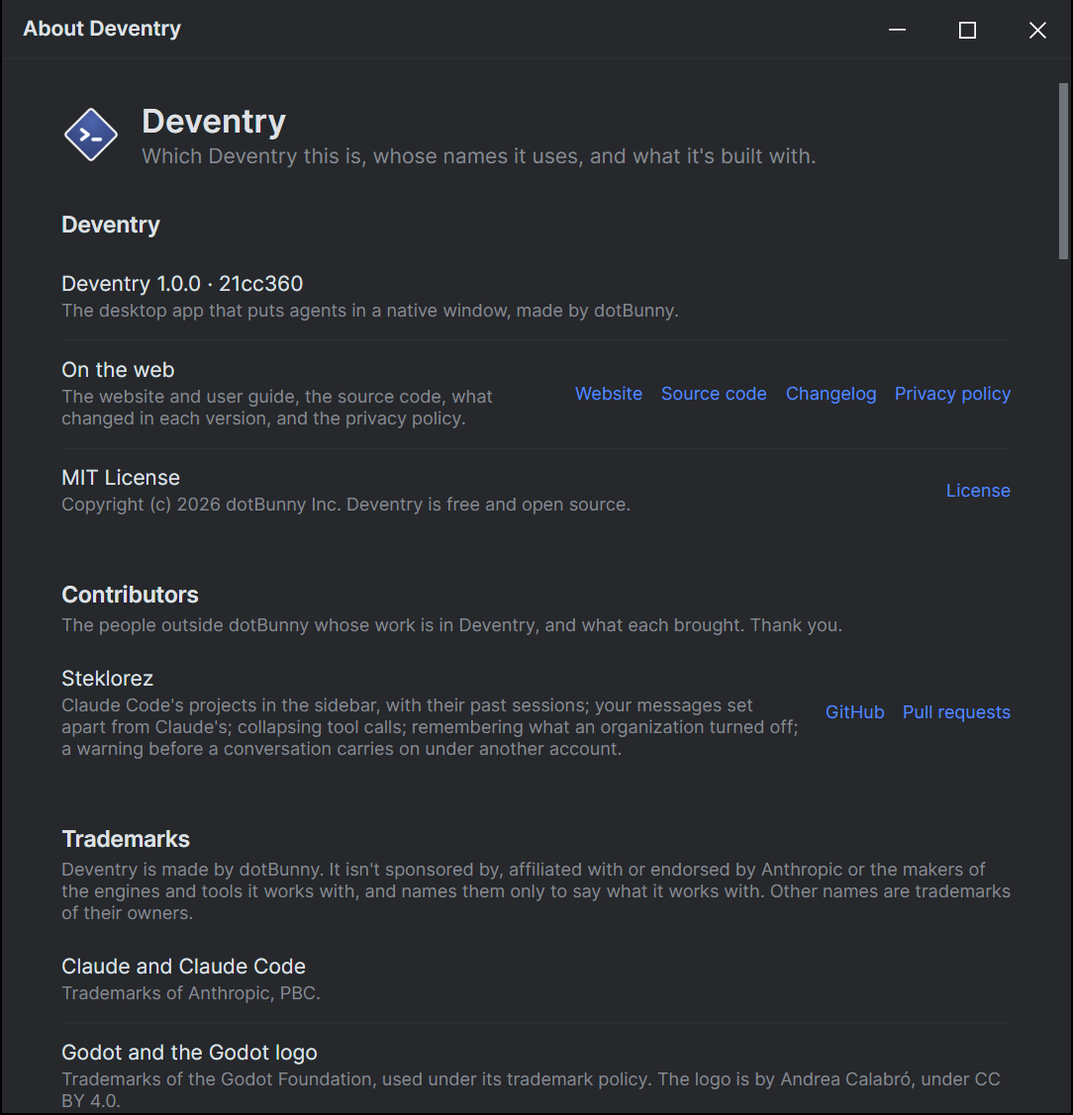
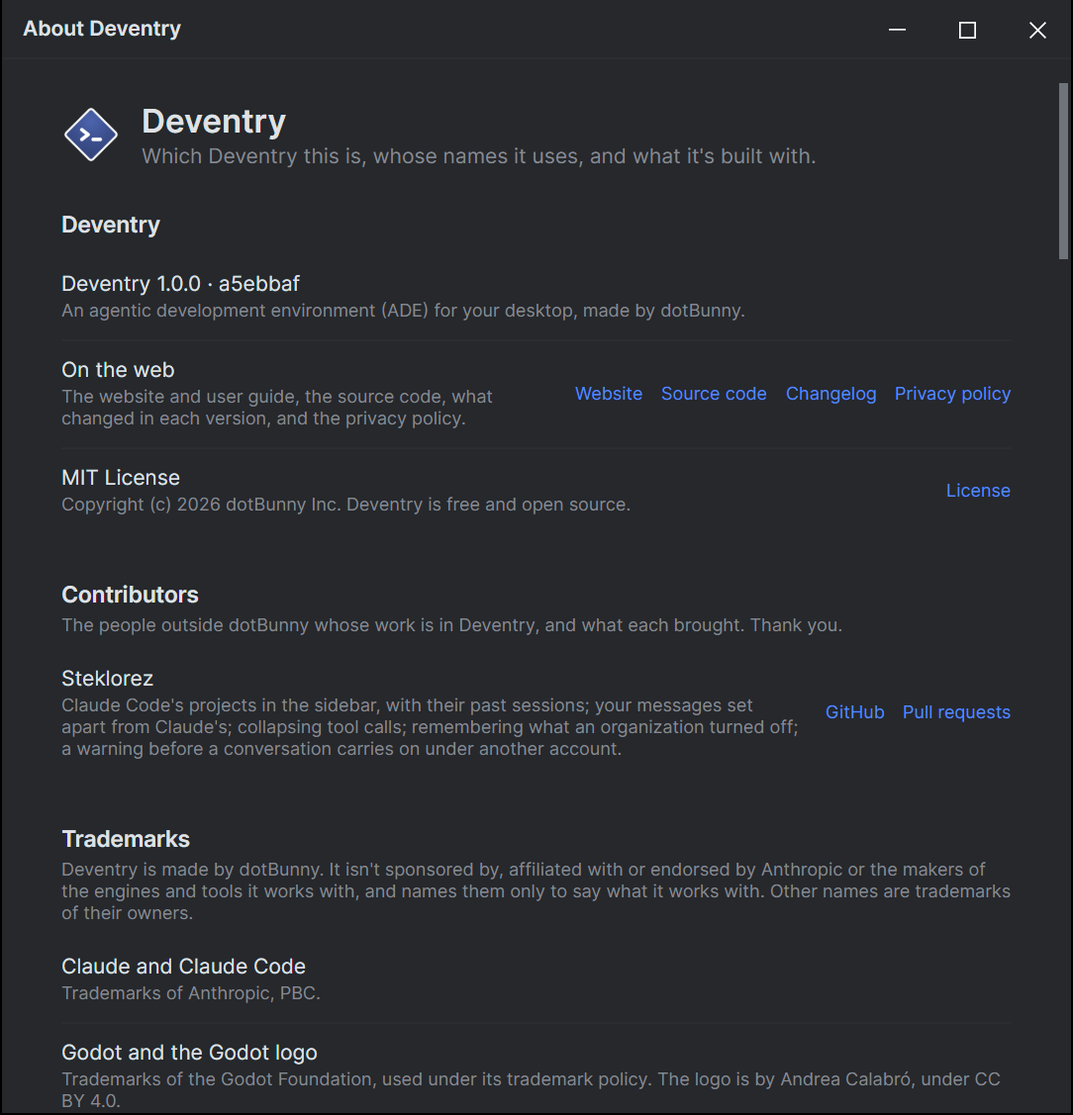
Prepare 1.0.0: say Deventry is an ADE, light on tokens by default
The site, README, About, the MSIX and the Linux entries now say what
Deventry is: an agentic development environment (ADE) for your desktop,
made for Claude Code first, with more agents to come. The landing page's
kicker and the social card read "Agentic development, in a real desktop
window", and a new Light on tokens band says what Deventry asks Claude
for on its own and what it leaves off until asked.

Tabs no longer use usage credits by default; settings saved before keep
their choice. DESIGN.md's positioning rules and §6 follow.

CHANGELOG.md's Unreleased becomes 1.0.0, dated 2026-11-04
(release.mjs prepare).

Changed region(s): [[0.1218, 0.2484, 0.4262, 0.3106], [0.4566, 0.2484, 0.6697, 0.3106], [0.0609, 0.2484, 0.0913, 0.3106]]

diff --git a/docs/index.html b/docs/index.html
@@ -1,7 +1,7 @@
 ---
 layout: landing
 title: Deventry
-description: Your agents in a real desktop window. Every session in its own tab, every change ready to review, and your plan's usage on screen the whole time.
+description: An agentic development environment (ADE) for your desktop, made for Anthropic's Claude Code and light on tokens by default. Every session in its own tab, every change ready to review, and your plan's usage on screen the whole time.
 nav_exclude: true
 search_exclude: true
 ---
@@ -38,9 +38,9 @@ search_exclude: true
     <img class="hero-sprite" src="{{ '/assets/deventry.svg' | relative_url }}" alt="" width="120" height="120">
     <img class="hero-wordmark" src="{{ '/assets/wordmark.svg' | relative_url }}" alt="" width="540" height="80">
   </div>
-  <p class="kicker">Your agents, in a real desktop window</p>
+  <p class="kicker">Agentic development, in a real desktop window</p>
   <h1 class="hero-title">Every session in a tab.<br><span class="gradient-text">Every change in sight.</span></h1>
-  <p class="hero-lead">Deventry runs the real Claude Code, with your settings, <code>CLAUDE.md</code>, MCP servers and hooks, and draws it as a native app: a tab for each session, every change ready to review, and your plan's usage on screen the whole time.</p>
+  <p class="hero-lead">Deventry is an agentic development environment, an ADE, for your desktop. It runs Anthropic's Claude Code, the real <code>claude</code> with your settings, <code>CLAUDE.md</code>, MCP servers and hooks, as a native app: a tab for each session, every change ready to review, and your plan's usage on screen the whole time. Out of the box, it spends as few of your tokens as it can.</p>
 
   <div class="get" id="download">
     <div class="get-card">
@@ -54,7 +54,7 @@ search_exclude: true
       <p class="get-soon">Until then, {% if claudette %}Claudette {{ claudette.tag_name | remove_first: "v" }}{% else %}Claudette{% endif %}, Deventry's name before 1.0.0, is on the <a href="{{ '/downloads/#claudette' | relative_url }}">Downloads page</a>.</p>
       {%- endunless %}
     </div>
-    <p class="get-note">Works with <a href="https://code.claude.com/docs/en/setup">Claude Code</a> today, with more providers to come · Windows 10 and 11, macOS 12 or later, Linux on x64 · <a href="{{ '/downloads/' | relative_url }}">Every package</a></p>
+    <p class="get-note">Made for <a href="https://code.claude.com/docs/en/setup">Claude Code</a> first, with more agents to come · Windows 10 and 11, macOS 12 or later, Linux on x64 · <a href="{{ '/downloads/' | relative_url }}">Every package</a></p>
   </div>
 
   <div class="hero-actions">
@@ -65,6 +65,7 @@ search_exclude: true
 
   <ul class="trust">
     <li>{% include icon.html name="terminal" %} Runs the real <code>claude</code></li>
+    <li><a href="#lean">{% include icon.html name="gauge" %} <strong>Light on tokens</strong> by default</a></li>
     <li>{% include icon.html name="shield" %} <strong>No analytics</strong></li>
     <li>{% include icon.html name="code" %} MIT licensed</li>
     <li><a href="#platforms">{% include icon.html name="monitor" %} Windows, macOS and Linux</a></li>
@@ -77,6 +78,23 @@ search_exclude: true
     {% include picture.html name="standard" alt="Deventry's window: seven tabs over three game projects in the sidebar, a C++ conversation with tool calls and a code block, the Changed files page in the side panel, the plan's usage in the header, and Joulene standing on the message box" width=2224 height=1427 eager=true %}
   </div>
 </div>
+
+<section class="band lean" id="lean" aria-labelledby="lean-title">
+  <div class="section-head" data-reveal>
+    <p class="kicker">{% include icon.html name="gauge" %} Light on tokens</p>
+    <h2 id="lean-title">Your tokens go to your work.<br><span class="gradient-text">Not to the window.</span></h2>
+    <p>Deventry asks Claude for very little on its own: a short title for each new session, and a check-in on a turn that runs long or goes quiet. Whatever else would spend tokens waits for you to turn it on, and keeping an eye on your usage spends none.</p>
+  </div>
+  <div class="cards cards-3">
+    <a class="card" href="{{ '/composer/prompt-suggestions/' | relative_url }}" data-reveal>{% include icon.html name="sparkles" %}<strong>Extras wait for you</strong><span>Prompt suggestions and subagents' progress summaries each take a model call of their own, so they're off until you turn them on.</span></a>
+    <a class="card" href="{{ '/usage/tabs-that-dont-use-usage-credits/' | relative_url }}" data-reveal>{% include icon.html name="coins" %}<strong>Credits kept for later</strong><span>Once a limit's used up, tabs wait for the reset rather than spend your usage credits, unless you say a tab may.</span></a>
+    <a class="card" href="{{ '/usage/the-prompt-cache/' | relative_url }}" data-reveal>{% include icon.html name="timer" %}<strong>The cache, counted down</strong><span>A chip shows how long the prompt cache has left, so you know when your next message reads the conversation for a fraction of the cost.</span></a>
+    <a class="card" href="{{ '/composer/check-ins-on-long-turns/' | relative_url }}" data-reveal>{% include icon.html name="activity" %}<strong>No turn left burning</strong><span>A turn that runs long or goes quiet gets a check-in, so a stuck tab doesn't burn your usage without anyone noticing.</span></a>
+    <a class="card" href="{{ '/usage/context-and-compacting/' | relative_url }}" data-reveal>{% include icon.html name="chart-pie" %}<strong>Context at a glance</strong><span>A ring on each tab's row shows how full its context is, counted without spending a token, with what fills it a click away.</span></a>
+    <a class="card" href="{{ '/conversation/subagents/#discouraging-or-turning-off-subagents' | relative_url }}" data-reveal>{% include icon.html name="users" %}<strong>Subagents your way</strong><span>Let Claude decide, discourage subagents, or turn them off, for every tab or just one.</span></a>
+  </div>
+  <p class="band-more" data-reveal><a class="more" href="{{ '/getting-started/how-deventry-uses-claude-code/#what-deventry-asks-claude-code-for-on-its-own' | relative_url }}">What Deventry asks Claude Code for {% include icon.html name="arrow-right" %}</a></p>
+</section>
 
 <section class="band gamedev" id="game-dev" aria-labelledby="gamedev-title">
   <div class="section-head" data-reveal>

diff --git a/docs/_includes/icon.html b/docs/_includes/icon.html
@@ -38,6 +38,12 @@
 {%- when "scroll" -%}<path d="M15 12h-5"/><path d="M15 8h-5"/><path d="M19 17V5a2 2 0 0 0-2-2H4"/><path d="M8 21h12a2 2 0 0 0 2-2v-1a1 1 0 0 0-1-1H11a1 1 0 0 0-1 1v1a2 2 0 1 1-4 0V5a2 2 0 1 0-4 0v2a1 1 0 0 0 1 1h3"/>
 {%- when "columns" -%}<rect width="18" height="18" x="3" y="3" rx="2"/><path d="M9 3v18"/><path d="M15 3v18"/>
 {%- when "rewind" -%}<path d="M3 12a9 9 0 1 0 9-9 9.75 9.75 0 0 0-6.74 2.74L3 8"/><path d="M3 3v5h5"/>
+{%- when "gauge" -%}<path d="m12 14 4-4"/><path d="M3.34 19a10 10 0 1 1 17.32 0"/>
+{%- when "coins" -%}<circle cx="8" cy="8" r="6"/><path d="M18.09 10.37A6 6 0 1 1 10.34 18"/><path d="M7 6h1v4"/><path d="m16.71 13.88.7.71-2.82 2.82"/>
+{%- when "timer" -%}<line x1="10" x2="14" y1="2" y2="2"/><line x1="12" x2="15" y1="14" y2="11"/><circle cx="12" cy="14" r="8"/>
+{%- when "activity" -%}<path d="M22 12h-2.48a2 2 0 0 0-1.93 1.46l-2.35 8.36a.25.25 0 0 1-.48 0L9.24 2.18a.25.25 0 0 0-.48 0l-2.35 8.36A2 2 0 0 1 4.49 12H2"/>
+{%- when "chart-pie" -%}<path d="M21 12c.552 0 1.005-.449.95-.998a10 10 0 0 0-8.953-8.951c-.55-.055-.998.398-.998.95v8a1 1 0 0 0 1 1z"/><path d="M21.21 15.89A10 10 0 1 1 8 2.83"/>
+{%- when "users" -%}<path d="M16 21v-2a4 4 0 0 0-4-4H6a4 4 0 0 0-4 4v2"/><circle cx="9" cy="7" r="4"/><path d="M22 21v-2a4 4 0 0 0-3-3.87"/><path d="M16 3.13a4 4 0 0 1 0 7.75"/>
 {%- when "unfold-horizontal" -%}<path d="M16 12h6"/><path d="M8 12H2"/><path d="M12 2v2"/><path d="M12 8v2"/><path d="M12 14v2"/><path d="M12 20v2"/><path d="m19 15 3-3-3-3"/><path d="m5 9-3 3 3 3"/>
 {%- when "fold-horizontal" -%}<path d="M2 12h6"/><path d="M22 12h-6"/><path d="M12 2v2"/><path d="M12 8v2"/><path d="M12 14v2"/><path d="M12 20v2"/><path d="m19 9-3 3 3 3"/><path d="m5 15 3-3-3-3"/>
 {%- endcase -%}

diff --git a/tools/Deventry.Demo/social-card.html b/tools/Deventry.Demo/social-card.html
@@ -106,12 +106,12 @@
       <img class="sprite" src="../../docs/assets/deventry.svg" alt="">
       <img class="wordmark" src="../../docs/assets/wordmark.svg" alt="">
     </div>
-    <p class="kicker">Your agents, in a real desktop window</p>
+    <p class="kicker">Agentic development, in a real desktop window</p>
     <h1>Every session in a tab.<br><span class="gradient-text">Every change in sight.</span></h1>
     <p class="features">Tabs<b>·</b>Agents<b>·</b>Usage<b>·</b>Review<b>·</b>Files</p>
     <div class="card">
-      <svg viewBox="0 0 24 24" fill="none" stroke="currentColor" stroke-width="2" stroke-linecap="round" stroke-linejoin="round"><path d="m4 17 6-6-6-6"/><path d="M12 19h8"/></svg>
-      <p><strong>Runs the real <code>claude</code></strong>, with your settings, <code>CLAUDE.md</code>, MCP servers and hooks</p>
+      <svg viewBox="0 0 24 24" fill="none" stroke="currentColor" stroke-width="2" stroke-linecap="round" stroke-linejoin="round"><path d="m12 14 4-4"/><path d="M3.34 19a10 10 0 1 1 17.32 0"/></svg>
+      <p><strong>An ADE for Claude Code</strong>, light on tokens by default, with more agents to come</p>
     </div>
   </div>
   <p class="site">deventry.app</p>

diff --git a/docs/assets/css/landing.css b/docs/assets/css/landing.css
@@ -216,6 +216,9 @@ h1, h2, h3 { color: var(--heading); line-height: 1.12; margin: 0; }
 .hero-shot { max-width: 68rem; margin: 1rem auto 0; padding: 0 1.5rem; perspective: 2000px; }
 .frame-hero { border-radius: 1.2rem; }
 
+/* Light on tokens: what Deventry spends of them, and what it leaves off until asked, first after the window. */
+.band.lean { padding-top: 7rem; padding-bottom: 0; }
+
 /* For game developers: a card for each engine Deventry knows, then what else a game's day needs. The systems it runs
    on have cards of the same kind, further down. */
 .band.gamedev { padding-top: 7rem; padding-bottom: 0; }

diff --git a/tests/Deventry.App.Tests/UsageCreditsTabTests.cs b/tests/Deventry.App.Tests/UsageCreditsTabTests.cs
@@ -21,8 +21,9 @@ public class UsageCreditsTabTests
     {
         await using var h = new TabTestHarness();
         var tab = await WorkingAsync(h);
-        tab.ToggleUseUsageCreditsCommand.Execute(null);
+        // Tabs don't use them unless Settings or the tab says so.
         Assert.False(tab.UsesUsageCredits);
+        Assert.Null(tab.State.Overrides.UseUsageCredits);
         var reset = h.Time.GetUtcNow() + TimeSpan.FromHours(2);
 
         h.Transport.Emit(PaidByCredits(reset));
@@ -47,7 +48,7 @@ public class UsageCreditsTabTests
     [Fact]
     public async Task A_tab_that_uses_them_carries_on()
     {
-        await using var h = new TabTestHarness();
+        await using var h = new TabTestHarness(s => s.Usage.UseUsageCredits = true);
         var tab = await WorkingAsync(h);
         Assert.True(tab.UsesUsageCredits);
 
@@ -196,19 +197,19 @@ public class UsageCreditsTabTests
         Assert.True(tab.HasUsageCreditsMenu);
 
         tab.ToggleUseUsageCreditsCommand.Execute(null);
-        Assert.False(tab.State.Overrides.UseUsageCredits);
+        Assert.True(tab.State.Overrides.UseUsageCredits);
         Assert.True(tab.HasOverrides);
 
         tab.ToggleUseUsageCreditsCommand.Execute(null);
         Assert.Null(tab.State.Overrides.UseUsageCredits);
         Assert.False(tab.HasOverrides);
 
-        // Settings → Usage turned off: tabs follow it, and one can turn them back on.
+        // Settings → Tabs turned on: tabs follow it, and one can turn them back off.
         var settings = new SettingsViewModel(h.Services, null);
-        settings.Tabs.UseUsageCredits = false;
-        await TabTestHarness.Eventually(() => !tab.UsesUsageCredits, "the tab to follow Settings");
+        settings.Tabs.UseUsageCredits = true;
+        await TabTestHarness.Eventually(() => tab.UsesUsageCredits, "the tab to follow Settings");
         tab.ToggleUseUsageCreditsCommand.Execute(null);
-        Assert.True(tab.State.Overrides.UseUsageCredits);
+        Assert.False(tab.State.Overrides.UseUsageCredits);
     }
 
     [Fact]
@@ -218,13 +219,13 @@ public class UsageCreditsTabTests
         var tab = await h.OpenTabAsync();
         var settings = new TabSettingsViewModel(h.Services, tab, () => { });
         Assert.True(settings.ShowsUsageCredits);
-        Assert.Equal("Default (on)", settings.SelectedUsageCredits.Label);
+        Assert.Equal("Default (off)", settings.SelectedUsageCredits.Label);
 
-        settings.SelectedUsageCredits = settings.UsageCreditsChoices.Single(c => c.Label == "Off");
+        settings.SelectedUsageCredits = settings.UsageCreditsChoices.Single(c => c.Label == "On");
         await settings.DoneCommand.ExecuteAsync(null);
 
-        Assert.False(tab.State.Overrides.UseUsageCredits);
-        Assert.False(tab.UsesUsageCredits);
+        Assert.True(tab.State.Overrides.UseUsageCredits);
+        Assert.True(tab.UsesUsageCredits);
         settings = new TabSettingsViewModel(h.Services, tab, () => { });
         settings.UseAllDefaults();
         await settings.DoneCommand.ExecuteAsync(null);

diff --git a/src/Deventry.App/ViewModels/Settings/AboutPage.cs b/src/Deventry.App/ViewModels/Settings/AboutPage.cs
@@ -55,7 +55,7 @@ public sealed partial class AboutPage : SettingsPage
     {
         Section("deventry", "Deventry",
         [
-            Info("about.version", Services.Build.Label, "The desktop app that puts agents in a native window, made by dotBunny.", keywords: ["version", "dotBunny"]),
+            Info("about.version", Services.Build.Label, "An agentic development environment (ADE) for your desktop, made by dotBunny.", keywords: ["version", "dotBunny"]),
             Info("about.links", "On the web", "The website and user guide, the source code, what changed in each version, and the privacy policy.",
                 keywords: ["website", "github", "source code", "changelog", "privacy policy"]),
             Info("about.license", "MIT License", $"{ThirdPartyNotices.DeventryCopyright.TrimEnd('.')}. Deventry is free and open source.",

diff --git a/src/Deventry.Core/Settings/AppSettings.cs b/src/Deventry.Core/Settings/AppSettings.cs
@@ -205,10 +205,10 @@ public sealed class UsageSettings
     public bool ContinueAfterLimitReset { get; set; } = true;
 
     /// <summary>
-    /// Tabs carry on with usage credits once a limit is used up; off, a tab stops and waits for the limit to reset
-    /// instead (DESIGN.md §6, "Tabs that don't use usage credits"). Each tab can override it.
+    /// Tabs carry on with usage credits once a limit is used up; off, the default, a tab stops and waits for the limit
+    /// to reset instead (DESIGN.md §6, "Tabs that don't use usage credits"). Each tab can override it.
     /// </summary>
-    public bool UseUsageCredits { get; set; } = true;
+    public bool UseUsageCredits { get; set; }
 
     public RetentionPeriod KeepHistory { get; set; } = RetentionPeriod.OneMonth;
 

diff --git a/src/Deventry.Platform/LoginItems/Linux/XdgAutostartLoginItems.cs b/src/Deventry.Platform/LoginItems/Linux/XdgAutostartLoginItems.cs
@@ -87,7 +87,7 @@ public sealed class XdgAutostartLoginItems(IProcessLauncher launcher, string aut
             [Desktop Entry]
             Type=Application
             Name=Deventry
-            Comment=The desktop app that puts agents in a native window
+            Comment=An agentic development environment for your desktop
             Exec={exec}
             Terminal=false
             X-GNOME-Autostart-enabled=true

diff --git a/DESIGN.md b/DESIGN.md
@@ -164,13 +164,14 @@ Planned, not started. Tried on a branch on 2026-10-11 against .NET 11 RC1 (SDK `
 
 ### Renaming to Deventry
 
-In progress, on the `deventry` branch since 2026-10-31. Decided on 2026-10-30; the name and the icon on 2026-10-31.
+✅ Built on the `deventry` branch and merged into `main` on 2026-10-31, for 1.0.0. Decided on 2026-10-30; the name and the icon on 2026-10-31; how Deventry says what it is, on 2026-11-04.
 
 - **Why.** Claudette's name is close to Claude's, and her icon is Clawd, Claude Code's mascot, with hair ([Packaging and signing](#packaging-and-signing)), so she could be taken for something of Anthropic's. The app becomes **Deventry**: the way in to developing with agents. It's one word, spelled *Deventry* everywhere it's named, the code and its files too (`Deventry.Core`, `Deventry.exe`, `Deventry.app`), and *deventry* where it has to be lowercase (domains, packages, `deventry.json`). It was to be *devEntry*, written as a developer names a variable, until 2026-10-31, after the 0.7.0 release's notes named it so; 0.7.0 doesn't depend on the spelling, as it finds the new version's packages by architecture and kind and takes whatever app the disk image holds ([Updating Claudette](#updating-deventry)). It isn't to be registered as a trademark: what matters is that nobody else uses it, and on 2026-10-31 no company, product or project did, and its npm and PyPI names were free. The mascot on the composer becomes **Joulene**, from the joule and lean usage ([§6](#6-token-burn-awareness)), with a nod to Dolly Parton's *Jolene*. Providers besides Claude Code are to come, so Deventry doesn't call itself an app for Claude Code.
 - **What people see.**
   - Deventry wherever Claudette names the app: the windows, menus, Settings, About, notifications, the installers, the website and the README. The mascot is Joulene, on the composer ([§5](#joulene-on-the-composer)) and in the games ([§18](#games-with-joulene)), and wherever the app names her, as in *Joulene is thinking…* and **Joulene settings…**.
-  - Where Deventry says what it is, it names no provider: *the desktop app that puts agents in a native window*. That's the site's description, the MSIX's and the Store's, About's line and the README's first line. The landing page's headline, in place of *Claude Code in a real desktop window*, is *Your agents in a real desktop window*, and the social card's follows it.
-  - Where the guide says how something works with Claude Code today (installing it, signing in, permissions, usage limits), it still names Claude Code, since that's what runs; those pages split by provider when a second one comes. The landing page, Downloads and the Store listing say what Deventry needs: *Works with Claude Code today, with more providers to come.*
+  - Where Deventry says what it is, it names no provider: *an agentic development environment (ADE) for your desktop*. That's the site's description, the MSIX's and the Store's, About's line, the Linux entries' comment and the README's first line. The landing page's kicker, over its headline (*Every session in a tab. Every change in sight.*), is *Agentic development, in a real desktop window*, in place of *Your agents, in a real desktop window*, and the social card's follows it; its lead spells the ADE out.
+  - Claude Code is its first agent, and the one it's made for: the landing page, Downloads and the Store listing say *Made for Claude Code first, with more agents to come*, which replaced *Works with Claude Code today, with more providers to come*. Where the guide says how something works with Claude Code today (installing it, signing in, permissions, usage limits), it still names Claude Code, since that's what runs; those pages split by agent when a second one comes.
+  - Being light on tokens by default is said as one of what Deventry is ([§6](#6-token-burn-awareness)): the README's first lines, a chip in the landing page's hero, and the landing page's first band after the window, *Light on tokens*, which says what Deventry asks Claude for on its own (a session's title and a check-in on a long or quiet turn) and what it leaves off until asked: prompt suggestions, subagents' progress summaries and usage credits, with the prompt cache's countdown, the free context count, check-ins and the subagents' choice beside them. Only what's true of the defaults goes there.
 - **The icon** ✅ Built 2026-10-31. Deventry's own, no longer the mascot: a road-work sign, a diamond in Joulene's gown's blue (`#3B4E8C`), lit softly from the top, with a prompt, `>_`, on it in white, the `_` clear of the `>`'s point so the two don't run together when small, and a white edge round it, so it stands on a light or dark background without a tile; a white border inset, as a road sign has, was tried and left off. It keeps what Claudette's icon does ([§10](#10-notifications)), each state a symbol on the sign, centred on it:
   - **Working:** the `>` becomes an arrow board's three chevrons, lighting one after another, as the sequential arrows on a road-work trailer do.
   - **Waiting for a usage limit:** an hourglass, its sand running down, then turning over.
@@ -1253,9 +1254,9 @@ Each alert fires once per window. The first reading after a restart doesn't aler
 
 ### Tabs that don't use usage credits
 
-✅ Built 2026-10-16. Usage credits pay for every tab on the Default account alike once a limit is used up. A tab can do without them, so they go only to the work that matters: it stops instead, and waits for the limit to reset, as at a limit with no credits behind it.
+✅ Built 2026-10-16. Usage credits pay for every tab on the Default account alike once a limit is used up. A tab can do without them, so they go only to the work that matters: it stops instead, and waits for the limit to reset, as at a limit with no credits behind it. Since 1.0.0 tabs do without them unless told otherwise (decided 2026-11-04), as Deventry is light on tokens by default ([Renaming to Deventry](#renaming-to-deventry)). Settings saved before keep the choice they had, on, since the file holds every setting's value.
 
-- **Choosing.** Settings → Tabs → **Use usage credits once a limit is used up** (on by default) is every tab's choice. **Use usage credits**, a tick in a tab's menu ([Sidebar](#sidebar)), or **Usage credits** in **Tab settings…** (Default, On or Off; [§14](#per-tab-overrides)) changes it for one tab. The menu keeps the tab's own choice only while it differs from Settings, so ticking it back to what Settings says leaves the tab following Settings again. Only tabs on the Default account have them: an API-key account has no plan, so its tabs have neither the item nor the choice ([Accounts](#accounts)).
+- **Choosing.** Settings → Tabs → **Use usage credits once a limit is used up** (off by default) is every tab's choice. **Use usage credits**, a tick in a tab's menu ([Sidebar](#sidebar)), or **Usage credits** in **Tab settings…** (Default, On or Off; [§14](#per-tab-overrides)) changes it for one tab. The menu keeps the tab's own choice only while it differs from Settings, so ticking it back to what Settings says leaves the tab following Settings again. Only tabs on the Default account have them: an API-key account has no plan, so its tabs have neither the item nor the choice ([Accounts](#accounts)).
 - **Claude Code can't refuse them** for one session: no flag, setting or environment variable does, in its docs or in 2.1.284. So Deventry does, two ways:
   - **Before sending.** While credits pay by the header's reading ([Usage credits](#usage-credits)), what the tab would send is held rather than sent: the user's message, the task list's **Continue**, a thread's message to it, and its sub-threads' report. Its card says *"Queued: sent when the usage limit resets"*, with **Send now**, which sends it anyway, paid for with credits, and **Cancel**, which takes it back to the composer ([Queued messages](#queued-messages)). Without a reset time (Claude Code said credits pay, and nothing said until when) nothing is held, and the turn is stopped once it starts.
   - **During a turn.** A `rate_limit_event` on the tab's own session with `isUsingOverage` true (undocumented; [Usage credits](#usage-credits)) means credits have begun paying for the turn. Deventry interrupts it, with what was waiting its turn in Claude Code (`cancel_queued`), which would run on credits too: the user's messages and the thread's among those are held for the reset as above, and Deventry's check-ins are dropped. The request that brought the event is already paid for, since Claude Code reports it only afterwards. The conversation gets a note: *"Usage credits began paying for Claude, and this tab doesn't use them, so Deventry stopped the turn."* A turn sent with **Send now** isn't stopped.
@@ -2306,7 +2307,7 @@ A **Settings** window opens with `Ctrl+,` on Windows or `Cmd+,` on macOS, or fro
 | Keyboard | **Sending**: **Send with**: Enter (the default) or `Ctrl/Cmd+Enter`. **Shortcuts**: every shortcut, each one rebindable, and the keys that can't be changed ([below](#keyboard-shortcuts)). **Quick suffixes**: the list of suffixes, each with its label, text and optional shortcut, to add, edit, reorder and delete ([§5](#quick-suffixes)). |
 | Claude Code | All of it this computer's. **Claude Code**: installed version and install method, from `claude doctor`, check for Claude Code updates automatically, and the path to `claude` (auto-detected, with **Browse…**). **Account**: the signed-in account (email, plan and organization), with **Sign in** / **Sign out…**, the same as the header's account menu ([§11](#signing-in)). **Starting a session**: **Name each tab's session in Claude Code after the tab**, ask before using a new folder's own configuration (on by default; [Folder trust](#folder-trust)), use my login shell's environment (macOS and Linux only, on by default; [§13](#login-shell-environment)), keep copies of files Claude changes, so prompts can be rewound (on by default), give Claude a task list (on by default; [§5](#tasks)), summarize subagents' progress (off by default; [§5](#subagents)), and the fallback model (none by default). **Claude app**: Connect new tabs to the Claude app (off by default; each tab has its own switch), with what it does and how to get pushes on the phone. Disabled, with the reason, when the account can't use it ([§18](#remote-control-the-claude-app)). |
 | Accounts | All of it this computer's. **Accounts**: New folders use (Default unless changed), then each account besides Default: its name, its tag's color, warnings when its estimated spend passes an amount today or this month, **Change key…** and **Remove…**. **Add an API key**: a name and the key, which goes only to the OS credential store. See [§4](#accounts). |
-| Tabs | **New tabs start with**: model, effort level, permission mode and **Subagents**, each of which a tab can change for itself ([Per-tab overrides](#per-tab-overrides)). The permission mode is **Claude Code's default** unless chosen, named with the mode it gives, usually Auto ([Starting mode](#starting-mode)). The model and effort lists are what Claude Code offered in its last `initialize` reply on this machine (the models and each one's effort levels, kept with the machine's state), with a built-in list only until a session has started; Tab settings… lists them the same way. **Subagents** (this computer's): Claude decides (the default), discourage them, or don't allow them, applied at once ([§5](#subagents)). **At a usage limit**: Continue tasks when a usage limit resets (on by default; [§6](#continuing-after-a-limit-resets)), and Use usage credits once a limit is used up (on by default, and in a tab's menu too; [§6](#tabs-that-dont-use-usage-credits)). **Check-ins on long turns**: on or off, run time and quiet time before checking in, the message, and Notify me when a check-in is sent ([§5](#check-ins-on-long-turns)). **Process monitor**: show it, how often it refreshes, and show command lines ([§4](#process-monitor)). **New tab picker**: number of recent folders to keep (default 20), **Clear recent folders**, and favorite folders (this computer's; **Add folder…**, **Move up**, **Move down**, **Remove**), in the order the picker shows them ([Opening a tab](#opening-a-tab)). **Claude Code's projects** (this computer's): **Show Claude Code's projects in the sidebar** (off until chosen; [Claude Code's projects](#sidebar)). |
+| Tabs | **New tabs start with**: model, effort level, permission mode and **Subagents**, each of which a tab can change for itself ([Per-tab overrides](#per-tab-overrides)). The permission mode is **Claude Code's default** unless chosen, named with the mode it gives, usually Auto ([Starting mode](#starting-mode)). The model and effort lists are what Claude Code offered in its last `initialize` reply on this machine (the models and each one's effort levels, kept with the machine's state), with a built-in list only until a session has started; Tab settings… lists them the same way. **Subagents** (this computer's): Claude decides (the default), discourage them, or don't allow them, applied at once ([§5](#subagents)). **At a usage limit**: Continue tasks when a usage limit resets (on by default; [§6](#continuing-after-a-limit-resets)), and Use usage credits once a limit is used up (off by default, and in a tab's menu too; [§6](#tabs-that-dont-use-usage-credits)). **Check-ins on long turns**: on or off, run time and quiet time before checking in, the message, and Notify me when a check-in is sent ([§5](#check-ins-on-long-turns)). **Process monitor**: show it, how often it refreshes, and show command lines ([§4](#process-monitor)). **New tab picker**: number of recent folders to keep (default 20), **Clear recent folders**, and favorite folders (this computer's; **Add folder…**, **Move up**, **Move down**, **Remove**), in the order the picker shows them ([Opening a tab](#opening-a-tab)). **Claude Code's projects** (this computer's): **Show Claude Code's projects in the sidebar** (off until chosen; [Claude Code's projects](#sidebar)). |
 | Usage | **Warnings**: **Warn at** and **Alert at** (% of the session used; default 75% and 90%), and the burn rate window (default 30 minutes). **The usage header**: **Compact usage header** (off by default; [Compact header](#compact-header)), **Show model-specific weekly limits** (on by default), **If Claude Code stops reporting them, read them from /usage** (off by default), and **Detailed usage header** (off by default): the same switch as the header's chevron, kept on this machine ([Detailed header](#detailed-header)). **History**: **Keep usage history**: 1 day, 1 week, 1 month (default), 1 year or forever, with **Clear usage history** beside it ([Usage history](#usage-history)), and **Share usage with my other machines**: plan readings, and synced tabs' turns (off by default; [Sharing across machines](#sharing-across-machines)), with **Clear usage history on every machine…**. |
 | Advanced | All of it this computer's. **Running claude**: extra command-line arguments passed to `claude`, protocol logging with **Open log folder**, and Deventry's data folder. **Diagnostics**: what Claude Code sent that Deventry doesn't know, the minimum supported Claude Code version, and **Copy diagnostics** ([§16](#staying-tolerant-at-runtime)). |
 | Sessions | All of it this computer's. **Session library**: the folder (with **Browse…** and **Move library…**, which copies existing sessions to the new folder), and under it what the library takes, *The library holds 1.4 GB: 23 sessions.*: every file in it but leases, scratch pads, usage and settings sync included, measured off the UI thread each time the page shows and after the folder changes. Sync new tabs to the session library (off by default; each tab can be switched with **Sync to other machines** in its menu). Name for this machine, as shown in History. **Delete sessions not used for a while** (on by default), with how many days under it (15 by default; [Keeping sessions](#session-library-sync-across-machines)). **Settings sync**: **Sync Deventry's settings through the library** (off by default), with what it copies. See [§9](#session-library-sync-across-machines) and [Settings sync](#settings-sync-optional). |

diff --git a/GUIDE.md b/GUIDE.md
@@ -21,7 +21,7 @@ Planned 2026-10-15. Built 2026-10-16: the site, every chapter, and the pictures 
 - **The footers.** The landing page's and the guide's (`_includes/footer_custom.html`, Just the Docs' own replaced) say who makes Deventry, its license and where the privacy policy is, then the trademarks the site names, each with its owner's notice, and that none of them sponsors or endorses Deventry (`_includes/trademarks.html`). It's the list Settings → About has ([About](DESIGN.md#about)): a name added to one is added to the other.
 - **The check**, `.github/workflows/docs.yml`. On a pull request or a push to `main` that changes `docs/`, it builds the site with `docs/Gemfile`'s gems and runs html-proofer over it, for internal links only. A broken link, a missing picture or a picture with no alt text fails the run instead of reaching the site. It also checks that `/privacy-policy.html` still sends the reader to the policy: nothing on the site links there, so html-proofer wouldn't notice it gone. It doesn't publish anything.
 - **Previewing it.** With Ruby 3 installed, `host-docs.bat` (Windows) or `./host-docs.sh` (macOS and Linux) at the repository's root serves the site at http://127.0.0.1:4000 and builds it again as pages change: it runs `bundle install` the first time, then `bundle exec jekyll serve` in `docs/`, passing on what follows its name (`--livereload`, `--port 4001`). Each script's header says which Ruby to install. The Downloads page reads the releases from GitHub's API; without a token (`JEKYLL_GITHUB_TOKEN`) it still can, a few times an hour.
-- **The landing page**, `docs/index.html`, is the site's front page, like a product's home page rather than a page of the guide: a page of its own outside Just the Docs (`_layouts/landing.html`, `assets/css/landing.css`, `assets/js/landing.js`), with a header for **Home**, **Docs**, **Downloads**, the changelog and GitHub. It has the icon and its name, the latest release's packages (from `site.github`), what it does for game developers (a card for each engine, then editor logs, Perforce and your own actions), a tour of ten features with the README's and the guide's pictures, the two styles, Joulene, cards for the rest, a card for each system it runs on (what you get on Windows, macOS and Linux, and how to install it) with the commands that build it on Linux, and a last call to download. Linux has its own button beside the packages', to **Installing on Linux**, and the hero's *Windows, macOS and Linux* goes to the systems' cards. Its pictures follow the reader's theme through `_includes/picture.html`, its icons are drawn inline (`_includes/icon.html`, from Lucide, with Godot's logo on its card), so it loads nothing from elsewhere, and its motion (pictures rising into view, the tour's index following along) stops with reduced motion, when her animation gives way to her still picture too. It reads as well on a phone as on a desktop: nothing reaches past the sides of the screen, and the tour's index scrolls sideways inside its pill, keeping the step in view in sight. What a release doesn't have yet is marked *Next release*.
+- **The landing page**, `docs/index.html`, is the site's front page, like a product's home page rather than a page of the guide: a page of its own outside Just the Docs (`_layouts/landing.html`, `assets/css/landing.css`, `assets/js/landing.js`), with a header for **Home**, **Docs**, **Downloads**, the changelog and GitHub. It has the icon and its name, a kicker and lead that say what it is (an agentic development environment, an ADE, made for Claude Code first, with more agents to come), the latest release's packages (from `site.github`), *Light on tokens* (what Deventry asks Claude for on its own, and what it leaves off until asked, each card linking to its page), what it does for game developers (a card for each engine, then editor logs, Perforce and your own actions), a tour of ten features with the README's and the guide's pictures, the two styles, Joulene, cards for the rest, a card for each system it runs on (what you get on Windows, macOS and Linux, and how to install it) with the commands that build it on Linux, and a last call to download. Linux has its own button beside the packages', to **Installing on Linux**, and the hero's *Windows, macOS and Linux* goes to the systems' cards. Its pictures follow the reader's theme through `_includes/picture.html`, its icons are drawn inline (`_includes/icon.html`, from Lucide, with Godot's logo on its card), so it loads nothing from elsewhere, and its motion (pictures rising into view, the tour's index following along) stops with reduced motion, when her animation gives way to her still picture too. It reads as well on a phone as on a desktop: nothing reaches past the sides of the screen, and the tour's index scrolls sideways inside its pill, keeping the step in view in sight. What a release doesn't have yet is marked *Next release*.
 - **The page not found**, `docs/404.html`, which GitHub Pages serves at any address with no page. It has the landing page's layout, so its header and footer, and everything it loads is named from the site's root, as it must be at an address of any depth. Its `permalink` is `/404.html`, where GitHub Pages looks for it, which `permalink: pretty` would otherwise make `/404/`. The address asked for is the prompt in a message box like the app's composer, and Joulene stands on its top edge, puzzled: she looks left, right and ahead and blinks, with a "?" over her, as the app has her when she can't make something out. Under it, *That's a bad prompt.*, the way back (**Home**, **Read the docs**, **Downloads**) and where to report a broken link. Her picture is `_includes/joulene-puzzled.svg`, which `packaging/icon/build-icons.mjs` draws from her poses, inline so the page's CSS can show the poses in turn and give the "?" the muted text's color; with reduced motion she stands still. Without JavaScript the box keeps a prompt of its own in place of the address.
 - **The guide** starts at `/guide/`, the **Overview** (`docs/guide/index.md`), which **Docs** opens. Its chapters are grouped into sections in the sidebar, each a page in `docs/guide/` ([The chapters](#4-the-chapters)), so the sidebar has ten entries rather than twenty-three; **Getting started** and **Downloads** stand on their own.
 - **Chapters and pages.** Each chapter in [The chapters](#4-the-chapters) is a folder of pages with an `index.md`, which says what the chapter covers and has its section as its `parent`; the theme lists its pages as cards. A page's file is its title in lowercase with hyphens: **Worktree tabs** is `docs/tabs/worktree-tabs.md`. Every chapter and page has a `summary` in its front matter, a line saying what it's for, which its card shows. Chapters sit in the sidebar in the map's order.
@@ -71,7 +71,7 @@ The sidebar groups the chapters into sections (`docs/guide/<section>.md`), in th
 
 ### Home (`docs/index.html`)
 
-The landing page ([The site](#1-the-site)): what Deventry is, its latest release's packages (until 1.0.0 is out, that it's coming soon, with Claudette's on the Downloads page) and building it on Linux, what it does for game developers, a tour of its main features with pictures, its two styles, Joulene, the systems it runs on, and where to start. From [§1](DESIGN.md#1-goals) and the README.
+The landing page ([The site](#1-the-site)): what Deventry is, an ADE made for Claude Code first, its latest release's packages (until 1.0.0 is out, that it's coming soon, with Claudette's on the Downloads page) and building it on Linux, how light it is on tokens by default, what it does for game developers, a tour of its main features with pictures, its two styles, Joulene, the systems it runs on, and where to start. From [§1](DESIGN.md#1-goals) and the README.
 
 ### Downloads (`docs/downloads.md`)
 

diff --git a/CHANGELOG.md b/CHANGELOG.md
@@ -6,7 +6,9 @@ The format follows [Keep a Changelog](https://keepachangelog.com/en/1.1.0/), and
 
 ## [Unreleased]
 
-**Claudette is now Deventry.** The same app, with a new name, a new icon and a new mascot on the composer, Joulene. Everything comes with you: the first time Deventry starts, it takes over Claudette's tabs, settings, History, session library and saved passwords and API keys, and if Claudette started when you logged in, Deventry does instead.
+## [1.0.0] - 2026-11-04
+
+**Claudette is now Deventry**, an agentic development environment (ADE) for your desktop: made for Claude Code first, with more agents to come, and light on tokens by default. The same app, with a new name, a new icon and a new mascot on the composer, Joulene. Everything comes with you: the first time Deventry starts, it takes over Claudette's tabs, settings, History, session library and saved passwords and API keys, and if Claudette started when you logged in, Deventry does instead.
 
 ### Added
 
@@ -26,6 +28,7 @@ The format follows [Keep a Changelog](https://keepachangelog.com/en/1.1.0/), and
 
 ### Changed
 
+- **Tabs don't spend usage credits unless you say so.** Once your session or weekly limit is used up, a tab now stops and waits for the reset rather than let your plan's usage credits pay for it. Turn on Settings → Tabs → **Use usage credits once a limit is used up** for every tab, or tick **Use usage credits** in a tab's menu for the ones that can't wait. Settings carried over from Claudette keep it on, as it was. See [Tabs that don't use usage credits](https://deventry.app/usage/tabs-that-dont-use-usage-credits/).
 - **The Games icon is always on the strip.** While games are on, its icon stays at the window's right, game or no game, so you can start one at any time: with none open, its window lists the four, each with your score so far. **Done playing** goes back to that list. See [Games with Joulene](https://deventry.app/joulene/games-with-joulene/).
 - **Project settings have a window of their own.** **Project settings…**, in a group's menu and now in each tab's, opens the project's links, actions, tools, and its group's color and icon in a window beside the main one, one for each project, even for a group with nothing open in it. **Add a link…** and **Add an action…** open it too. They're no longer at the foot of Settings' sidebar, and a group's color is picked there now, in place of **Change color…** in the group's menu. See [Project settings](https://deventry.app/settings/project-settings/).
 - **The project's menu for a folder with nothing open.** A group in the sidebar with no tab open, such as one of Claude Code's projects showing only its past sessions, now has its project's icon and menu, in place of a button that opened the folder: launch the editor, open the solution or a link from there. Builds and other actions with output need a tab open to run in. See [A folder with no tab open](https://deventry.app/project-tools/using-project-tools/#a-folder-with-no-tab-open).
@@ -308,7 +311,8 @@ The first public release.
 - The Standard and Claude styles, in light and dark, with compact density, zoom, reduced motion and screen readers' announcements.
 - Packages for Windows (MSIX) and macOS (`.dmg`), for x64 and Arm.
 
-[Unreleased]: https://github.com/dotBunny/Deventry/compare/v0.7.0...HEAD
+[Unreleased]: https://github.com/dotBunny/Deventry/compare/v1.0.0...HEAD
+[1.0.0]: https://github.com/dotBunny/Deventry/compare/v0.7.0...v1.0.0
 [0.7.0]: https://github.com/dotBunny/Deventry/compare/v0.6.0...v0.7.0
 [0.6.0]: https://github.com/dotBunny/Deventry/compare/v0.5.1...v0.6.0
 [0.5.1]: https://github.com/dotBunny/Deventry/compare/v0.5.0...v0.5.1

diff --git a/docs/usage/tabs-that-dont-use-usage-credits.md b/docs/usage/tabs-that-dont-use-usage-credits.md
@@ -7,12 +7,12 @@ summary: "Once a limit is used up, a tab can stop and wait for the reset rather 
 
 # Tabs that don't use usage credits
 
-If your plan has usage credits turned on, they pay for Claude once your session or weekly limit is used up, for every tab alike. You can keep them for the work that matters: a tab that doesn't use them stops instead, and waits for the limit to reset, as it would at a limit with no credits behind it.
+If your plan has usage credits turned on, they pay for Claude once your session or weekly limit is used up. Deventry keeps them for the work that matters: a tab that doesn't use them stops instead, and waits for the limit to reset, as it would at a limit with no credits behind it. By default no tab uses them, so you choose the ones that may.
 
 ## Choosing
 
-- **For every tab:** Settings → Tabs → **Use usage credits once a limit is used up**. It's on by default.
-- **For one tab:** **Use usage credits** in the tab's menu, a check item. Untick it on the tabs that can wait, or turn the setting off and tick it on the ones that can't. **Tab settings…** has the same choice, also named **Use usage credits**: see [Tab settings](../tabs/tab-settings.md).
+- **For every tab:** Settings → Tabs → **Use usage credits once a limit is used up**. It's off by default. Settings from before Deventry 1.0.0, Claudette's among them, keep it on, as it was then.
+- **For one tab:** **Use usage credits** in the tab's menu, a check item. Tick it on the tabs that can't wait, or turn the setting on and untick it on the ones that can. **Tab settings…** has the same choice, also named **Use usage credits**: see [Tab settings](../tabs/tab-settings.md).
 
 The menu keeps the tab's own choice only while it differs from Settings, so ticking it back to what Settings says leaves the tab following Settings again, and the dot beside **Tab settings…** goes.
 
@@ -39,7 +39,7 @@ Either way, the tab waits for the limit to reset exactly as it does after a usag
 
 | Setting | Default | Where |
 |---|---|---|
-| **Use usage credits once a limit is used up** | On | Settings → Tabs → At a usage limit |
+| **Use usage credits once a limit is used up** | Off | Settings → Tabs → At a usage limit |
 | **Use usage credits** | Follows the setting | The tab's menu, or **Tab settings…** |
 
 ## See also
